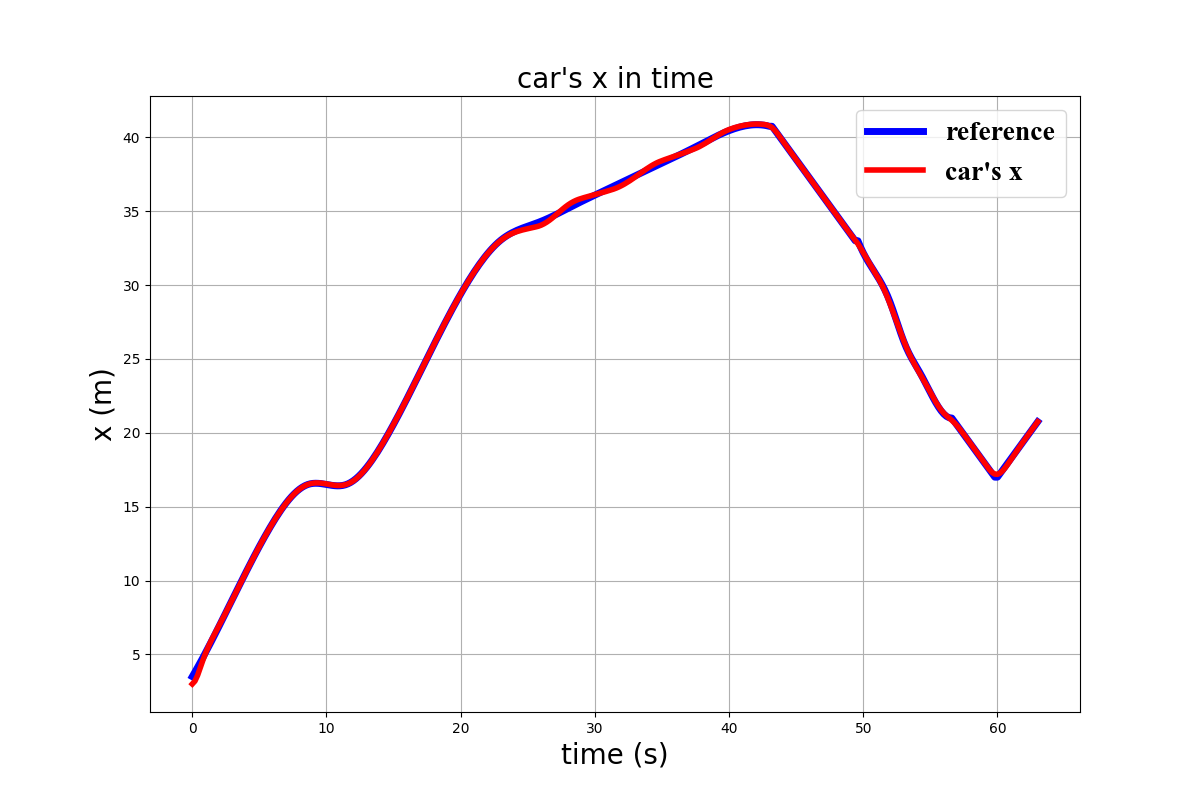
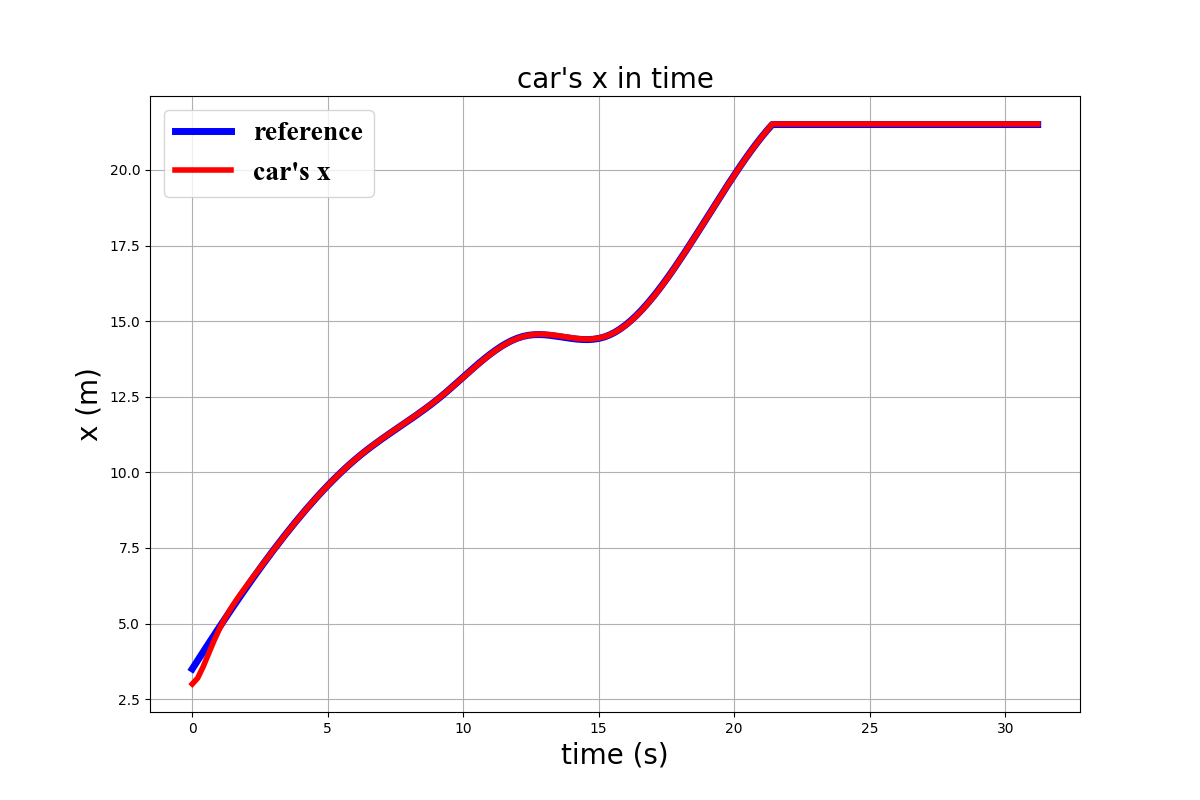
Delivery Robot Working

diff --git a/CAR kinematic model/main_autopark.py b/CAR kinematic model/main_autopark.py
@@ -65,25 +65,28 @@ if __name__ == '__main__':
     path_planner = PathPlanning(obs)
 
     print('planning park scenario ...')
-    new_end, park_path, ensure_path1, ensure_path2 = park_path_planner.generate_park_scenario(int(start[0]),int(start[1]),int(end[0]),int(end[1]))
+    # new_end, park_path, ensure_path1, ensure_path2 = park_path_planner.generate_park_scenario(int(start[0]),int(start[1]),int(end[0]),int(end[1]))
     
     print('routing to destination ...')
-    path = path_planner.plan_path(int(start[0]),int(start[1]),int(new_end[0]),int(new_end[1]))
-    path = np.vstack([path, ensure_path1])
+    path = path_planner.plan_path(int(start[0]),int(start[1]),int(end[0]),int(end[1]))
+    # path = np.vstack([path, ensure_path1])
 
     print('interpolating ...')
     interpolated_path = interpolate_path(path, sample_rate=5)
-    interpolated_park_path = interpolate_path(park_path, sample_rate=2)
-    interpolated_park_path = np.vstack([ensure_path1[::-1], interpolated_park_path, ensure_path2[::-1]])
+    # interpolated_park_path = interpolate_path(park_path, sample_rate=2)
+    # interpolated_park_path = np.vstack([ensure_path1[::-1], interpolated_park_path, ensure_path2[::-1]])
 
     env.draw_path(interpolated_path)
-    env.draw_path(interpolated_park_path)
+    # env.draw_path(interpolated_park_path)
 
-    final_path = np.vstack([interpolated_path, interpolated_park_path, ensure_path2])
+    # final_path = np.vstack([interpolated_path, interpolated_park_path, ensure_path2])
+    final_path = interpolated_path
 
     #############################################################################################
 
     ################################## control ##################################################
+
+
     print('driving to destination ...')
     for i,point in enumerate(final_path):
         
@@ -95,6 +98,14 @@ if __name__ == '__main__':
             key = cv2.waitKey(1)
             if key == ord('s'):
                 cv2.imwrite('res.png', res*255)
+
+    while abs(my_car.psi) > 0.01:
+        my_car.v = 0
+        my_car.update_state(my_car.move(0,0.1))
+        res = env.render(my_car.x, my_car.y, my_car.psi, delta)
+        logger.log(point, my_car, acc, delta)
+        cv2.imshow('environment', res)
+        key = cv2.waitKey(1)
 
     # zeroing car steer
     res = env.render(my_car.x, my_car.y, my_car.psi, 0)

diff --git a/CAR kinematic model/environment.py b/CAR kinematic model/environment.py
@@ -5,11 +5,11 @@ class Environment:
     def __init__(self,obstacles):
         self.margin = 5
         #coordinates are in [x,y] format
-        self.car_length = 80
+        self.car_length = 40
         self.car_width = 40
         self.wheel_length = 15
         self.wheel_width = 7
-        self.wheel_positions = np.array([[25,15],[25,-15],[-25,15],[-25,-15]])
+        self.wheel_positions = np.array([[0,15],[0,-15]])
         
         self.color = np.array([0,0,255])/255
         self.wheel_color = np.array([20,20,20])/255
@@ -66,20 +66,17 @@ class Environment:
         # adding wheel
         rotated_wheel_center = self.rotate_car(self.wheel_positions, angle=psi)
         for i,wheel in enumerate(rotated_wheel_center):
-            
-            if i <2:
-                rotated_wheel = self.rotate_car(self.wheel_struct, angle=delta+psi)
-            else:
-                rotated_wheel = self.rotate_car(self.wheel_struct, angle=psi)
+
+            rotated_wheel = self.rotate_car(self.wheel_struct, angle=psi)
             rotated_wheel += np.array([x,y]) + wheel + np.array([10*self.margin,10*self.margin])
             rendered = cv2.fillPoly(rendered, [rotated_wheel], self.wheel_color)
 
         # gel
-        gel = np.vstack([np.random.randint(-50,-30,16),np.hstack([np.random.randint(-20,-10,8),np.random.randint(10,20,8)])]).T
-        gel = self.rotate_car(gel, angle=psi)
-        gel += np.array([x,y]) + np.array([10*self.margin,10*self.margin])
-        gel = np.vstack([gel,gel+[1,0],gel+[0,1],gel+[1,1]])
-        rendered[gel[:,1],gel[:,0]] = np.array([60,60,135])/255
+        # gel = np.vstack([np.random.randint(-50,-30,16),np.hstack([np.random.randint(-20,-10,8),np.random.randint(10,20,8)])]).T
+        # gel = self.rotate_car(gel, angle=psi)
+        # gel += np.array([x,y]) + np.array([10*self.margin,10*self.margin])
+        # gel = np.vstack([gel,gel+[1,0],gel+[0,1],gel+[1,1]])
+        # rendered[gel[:,1],gel[:,0]] = np.array([60,60,135])/255
 
         new_center = np.array([x,y]) + np.array([10*self.margin,10*self.margin])
         self.background = cv2.circle(self.background, (new_center[0],new_center[1]), 2, [255/255, 150/255, 100/255], -1)

diff --git a/CAR kinematic model/pathplanning.py b/CAR kinematic model/pathplanning.py
@@ -277,23 +277,24 @@ class ParkPathPlanning:
         ry = np.array(ry)-self.margin+0.5
         path = np.vstack([rx,ry]).T
         path = path[::-1]
-        computed_angle = angle_of_line(path[-10][0],path[-10][1],path[-1][0],path[-1][1])
+        # computed_angle = angle_of_line(path[-10][0],path[-10][1],path[-1][0],path[-1][1])
+        #
+        # s = 4
+        # l = 8
+        # d = 3
+        # w = 4
+        #
+        # x_ensure2 = gx
+        # y_ensure2 = gy
+        # x_ensure1 = x_ensure2 + l + s
+        # y_ensure1 = y_ensure2 + d + w
+        # #Potentailly reverse first array
+        # ensure_path1 = np.vstack([np.arange(x_ensure1,x_ensure1+8,0.25),np.repeat(y_ensure1,8/0.25)]).T
+        # ensure_path2 = np.vstack([np.arange(x_ensure2-4,x_ensure2,0.25),np.repeat(y_ensure2,4/0.25)]).T
+        # park_path = self.plan_park_down_left(x_ensure2, y_ensure2)
 
-        s = 4
-        l = 8
-        d = 3
-        w = 4
-
-        x_ensure2 = gx
-        y_ensure2 = gy
-        x_ensure1 = x_ensure2 + l + s
-        y_ensure1 = y_ensure2 + d + w
-        #Potentailly reverse first array
-        ensure_path1 = np.vstack([np.arange(x_ensure1,x_ensure1+8,0.25),np.repeat(y_ensure1,8/0.25)]).T
-        ensure_path2 = np.vstack([np.arange(x_ensure2-4,x_ensure2,0.25),np.repeat(y_ensure2,4/0.25)]).T
-        park_path = self.plan_park_down_left(x_ensure2, y_ensure2)
-
-        return np.array([x_ensure1, y_ensure1]), park_path, ensure_path1, ensure_path2
+        # return np.array([x_ensure1, y_ensure1]), park_path, ensure_path1, ensure_path2
+        return path;
 
     def plan_park_down_left(self, x1,y1):
             s = 4

diff --git a/CAR kinematic model/control.py b/CAR kinematic model/control.py
@@ -17,7 +17,8 @@ class Car_Dynamics:
         x_dot = self.v*np.cos(self.psi)
         y_dot = self.v*np.sin(self.psi)
         v_dot = accelerate
-        psi_dot = self.v*np.tan(delta)/self.L
+        # psi_dot = self.v*np.tan(delta)/self.L
+        psi_dot = delta
         return np.array([[x_dot, y_dot, v_dot, psi_dot]]).T
 
     def update_state(self, state_dot):
